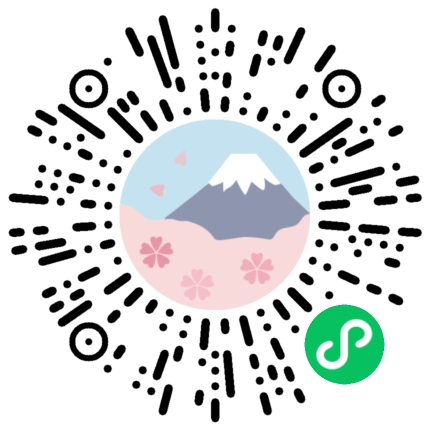
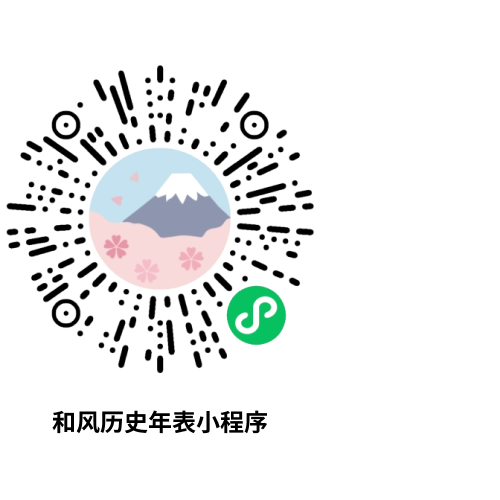
update timeline

diff --git a/_pages/timeline.md b/_pages/timeline.md
@@ -3,7 +3,10 @@ title: 日本历史年表
 permalink: /timeline/
 toc: true
 toc_label: 年代划分
-author: Weapp Timeline
+toc_sticky: true
+author_profile: false
+sidebar:
+  - image: /assets/images/timeline-weapp-qrcode.png
 ---
 
 ## 弥生时代
@@ -124,17 +127,17 @@ author: Weapp Timeline
 1543 | 葡萄牙商人在九州南部的种子岛登陆
 1549 | 弗朗西斯・扎比埃尔将基督教传入日本
 1561 | 第四次川中岛之战
-1571 | 织田信长火烧比壑山延历寺
-1573 | 织田信长放逐室町幕府第十五代将军足利义昭，室町幕府灭亡
+1571 | [织田信长](/figures/zhi-tian-xin-chang/)火烧比壑山延历寺
+1573 | [织田信长](/figures/zhi-tian-xin-chang/)放逐室町幕府第十五代将军足利义昭，室町幕府灭亡
 
 ## 安士桃山时代
 
-1582 | 本能寺之变
-1585 | 丰臣秀吉任关白
-1590 | 德川家康将领地迁移至关东地区，开始建造江户城堡
+1582 | [本能寺之变](/figures/ming-zhi-guang-xiu/)
+1585 | [丰臣秀吉](/figures/feng-chen-xiu-jiu/)任关白
+1590 | [德川家康](/figures/de-chuan-jia-kang/)将领地迁移至关东地区，开始建造江户城堡
 1592 | 文禄之役（丰臣秀吉攻朝鲜半岛）
 1597 | 庆长之役（丰臣秀吉攻朝鲜半岛）
-1598 | 丰臣秀吉病死，日本军队从朝鲜撤回
+1598 | [丰臣秀吉](/figures/feng-chen-xiu-ji/)病死，日本军队从朝鲜撤回
 1600 | 关原之战
 
 ## 江户时代

diff --git a/_posts/2023-03-16-tips-on-reading-history-books.md b/_posts/2023-03-16-tips-on-reading-history-books.md
@@ -1,11 +1,14 @@
 ---
 layout: single
 title: 如何阅读历史类书籍
+excerpt: 针对同一历史事件，不同史观下的描述是不同的。每一种历史的写作都必定是从某个观点出发的，如果想逼近真相，就很有必要多读一些相关论著，从多个角度来观察。
 tags:
   - 读书
 toc: true
 toc_label: 目录
 ---
+
+> [豆瓣读书：如何阅读一本书](https://book.douban.com/subject/1013208/)
 
 晚上读日本历史时，突然想起来，书架上有一本『如何阅读一本书』，其中「如何阅读历史书」的章节正好对我有所帮助，于是便取来读了起来。
 

diff --git a/_pages/materials.md b/_pages/materials.md
@@ -6,6 +6,8 @@ toc: true
 toc_label: 资源分类
 ---
 
+> 持续整理中，敬请关注
+
 ## 📺 NHK 大河剧
 
 * [维基百科——NHK大河剧](https://zh.wikipedia.org/wiki/NHK%E5%A4%A7%E6%B2%B3%E5%8A%87)
